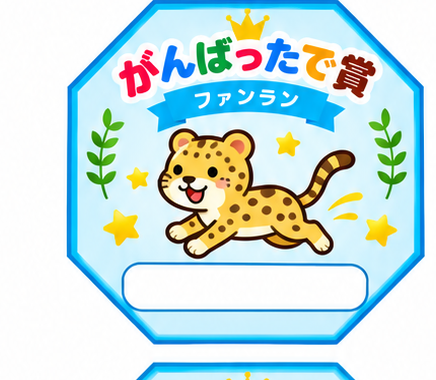
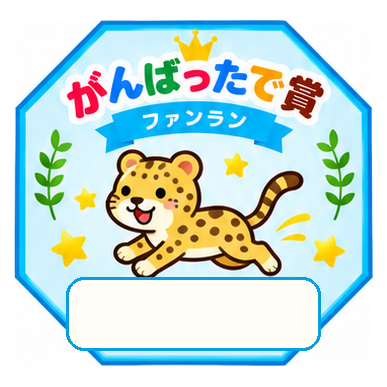
Add files via upload

diff --git a/app.js b/app.js
@@ -8,7 +8,7 @@ const LOCK_STALE_MS = 90000;
 const HEARTBEAT_MS = 20000;
 const DEFAULT_NOTICE = '開会式は、体育館で10時からとなっています。参加者は、5分前にはお集まりください。';
 const DEFAULT_CODES = { admin:'1234', A:'1111', B:'2222', C:'3333' };
-const APP_VERSION='1.0.11';
+const APP_VERSION='1.0.13';
 const TEAM_COLORS={
   1:'#FA927E',2:'#78C7FC',3:'#F8CC76',4:'#9EE6B4',5:'#C1A6F9',
   6:'#F6AAD2',7:'#88E2DB',8:'#F3B180',9:'#A5BDF3',10:'#D2E58A'
@@ -713,11 +713,11 @@ async function printFunRunCertificates(onlyAttended=true){
 async function printOneFunRunCertificate(id){const r=state.funRunEntries?.[id];if(!r)return;await refreshCertificateAssetUrls();openCertificatePages([certificatePageHtml('funRunAward',r)],state.settings?.funRunCertificateTitle||'がんばったで賞');}
 
 function funRunMedalStyles(){return `
-@page{size:A4 portrait;margin:0}*{box-sizing:border-box}html,body{margin:0;padding:0;background:#eef2f5;font-family:"Yu Gothic","Hiragino Sans",sans-serif;-webkit-print-color-adjust:exact;print-color-adjust:exact}.toolbar{position:sticky;top:0;z-index:5;padding:9px;background:#173d61;color:#fff;text-align:center}.toolbar button{border:0;border-radius:8px;padding:8px 18px;font-weight:800}.medal-sheet{width:210mm;height:297mm;background:#fff;margin:10px auto;padding:8mm 8mm 8mm;display:grid;grid-template-columns:repeat(2,1fr);grid-template-rows:repeat(4,1fr);column-gap:4mm;row-gap:3mm;page-break-after:always;box-shadow:0 5px 22px #0002}.medal-sheet:last-child{page-break-after:auto}.medal-cell{position:relative;display:flex;flex-direction:column;align-items:center;justify-content:flex-start;overflow:hidden;background:#fff}.medal-plate{position:relative;width:58mm;height:58mm;flex:0 0 auto}.medal-bg{display:block;width:100%;height:100%;object-fit:contain}.medal-name{position:absolute;left:17%;right:17%;top:72.5%;height:9.5%;display:flex;align-items:center;justify-content:center;font-size:4.1mm;font-weight:900;color:#184c80;white-space:nowrap;overflow:hidden;text-overflow:ellipsis;line-height:1}.medal-meta{margin-top:1mm;display:flex;flex-direction:column;align-items:center;justify-content:flex-start;text-align:center;line-height:1.16;min-height:8.8mm}.medal-event{font-size:2.55mm;font-weight:800;color:#2f2f2f;white-space:nowrap;max-width:88mm;overflow:hidden;text-overflow:ellipsis}.medal-date{margin-top:.25mm;font-size:3.05mm;font-weight:900;color:#2f2f2f;white-space:nowrap}@media print{body{background:#fff}.toolbar{display:none}.medal-sheet{margin:0;box-shadow:none}}`}
+@page{size:A4 portrait;margin:0}*{box-sizing:border-box}html,body{margin:0;padding:0;background:#eef2f5;font-family:"Yu Gothic","Hiragino Sans",sans-serif;-webkit-print-color-adjust:exact;print-color-adjust:exact}.toolbar{position:sticky;top:0;z-index:5;padding:9px;background:#173d61;color:#fff;text-align:center}.toolbar button{border:0;border-radius:8px;padding:8px 18px;font-weight:800}.medal-sheet{width:210mm;height:297mm;background:#fff;margin:10px auto;display:grid;grid-template-columns:64mm 64mm;grid-template-rows:repeat(4,64mm);justify-content:center;align-content:center;column-gap:14mm;row-gap:5mm;page-break-after:always;box-shadow:0 5px 22px #0002}.medal-sheet:last-child{page-break-after:auto}.medal-cell{width:64mm;height:64mm;position:relative;overflow:hidden;background:#fff}.medal-bg{position:absolute;inset:0;width:100%;height:100%;object-fit:contain}.medal-name,.medal-event,.medal-date{position:absolute;left:17%;right:17%;display:flex;align-items:center;justify-content:center;text-align:center;white-space:nowrap;overflow:hidden;text-overflow:ellipsis;line-height:1;color:#173f65}.medal-name{top:74.1%;height:7.2%;font-size:4.15mm;font-weight:900}.medal-event{top:81.8%;height:4.8%;font-size:2.35mm;font-weight:800;color:#303030}.medal-date{top:87.0%;height:5.0%;font-size:2.55mm;font-weight:900;color:#303030}@media print{body{background:#fff}.toolbar{display:none}.medal-sheet{margin:0;box-shadow:none}}`}
 function funRunMedalHtml(row){
   const info=funRunAnimalInfo(row?.animal),eventName=state.settings?.eventName||'駅伝大会',date=certificateDateText();
   const hasName=!!String(row?.name||'').trim(),medalName=hasName?String(row.name).trim():'';
-  return `<div class="medal-cell"><div class="medal-plate"><img class="medal-bg" src="${esc(absoluteAppUrl(info.file))}" alt="${esc(info.label)}">${hasName?`<div class="medal-name">${esc(medalName)}</div>`:''}</div><div class="medal-meta"><div class="medal-event">${esc(eventName)}</div><div class="medal-date">${esc(date)}</div></div></div>`;
+  return `<div class="medal-cell"><img class="medal-bg" src="${esc(absoluteAppUrl(info.file))}" alt="${esc(info.label)}">${hasName?`<div class="medal-name">${esc(medalName)}</div>`:''}<div class="medal-event">${esc(eventName)}</div><div class="medal-date">${esc(date)}</div></div>`;
 }
 function openFunRunMedalSheets(rows,title='ファンランメダル'){
   const sourceRows=Array.isArray(rows)?rows:[];
@@ -726,7 +726,7 @@ function openFunRunMedalSheets(rows,title='ファンランメダル'){
   const pages=[];
   for(let i=0;i<printableRows.length;i+=8){
     const chunk=printableRows.slice(i,i+8),cells=[...chunk];
-    while(cells.length<8)cells.push({name:'',animal:chunk[0]?.animal||sourceRows[0]?.animal||'cheetah'});
+    while(cells.length<8)cells.push({name:'',animal:FUNRUN_ANIMAL_KEYS[cells.length%FUNRUN_ANIMAL_KEYS.length]});
     pages.push(`<section class="medal-sheet">${cells.map(r=>funRunMedalHtml(r)).join('')}</section>`);
   }
   w.document.open();w.document.write(`<!doctype html><html lang="ja"><head><meta charset="utf-8"><title>${esc(title)}</title><style>${funRunMedalStyles()}</style></head><body><div class="toolbar"><button onclick="window.print()">A4・8枚でPDF／印刷</button>　${esc(title)}（${sourceRows.length}人）</div>${pages.join('')}</body></html>`);w.document.close();

diff --git a/index.html b/index.html
@@ -261,7 +261,7 @@
           </article>
 
           <article class="panel wide event-manager-panel admin-tab-panel" data-admin-category="settings">
-            <div class="panel-heading"><h2>年度別大会管理</h2><span class="mini-badge online">v1.0.11</span></div>
+            <div class="panel-heading"><h2>年度別大会管理</h2><span class="mini-badge online">v1.0.13</span></div>
             <p class="hint">現在大会は1つだけ運用します。新しい大会を作成すると、現在大会は過去大会として自動保存されます。申込者・チーム・計測記録は新大会へ引き継ぎません。</p>
             <div id="currentEventSummary" class="current-event-summary"></div>
             <div class="new-event-box">
@@ -345,7 +345,7 @@
           </article>
 
           <article class="panel wide certificate-admin-panel admin-tab-panel" data-admin-category="results">
-            <div class="panel-heading"><h2>表彰状・記録証テンプレート</h2><span class="mini-badge online">v1.0.11</span></div>
+            <div class="panel-heading"><h2>表彰状・記録証テンプレート</h2><span class="mini-badge online">v1.0.13</span></div>
             <p class="hint">標準テンプレートをそのまま使用できます。必要に応じてPNGをダウンロードし、Canva・PowerPoint等で編集してから背景画像としてアップロードしてください。完成した証書画像は保存せず、出力時に文字を重ねてPDF化します。</p>
             <div class="certificate-meta-grid">
               <label>主催名<input id="certificateOrganizerName" placeholder="例：大豊学園PTA" /></label>
@@ -488,7 +488,7 @@
           </article>
 
           <article class="panel wide backup-panel admin-tab-panel" data-admin-category="data">
-            <div class="panel-heading"><h2>バックアップ・データ出力</h2><span class="mini-badge">v1.0.11</span></div>
+            <div class="panel-heading"><h2>バックアップ・データ出力</h2><span class="mini-badge">v1.0.13</span></div>
             <p class="hint">JSONバックアップには申込者の個人情報とチーム用アクセスコードが含まれます。学校・大会事務局の安全な場所に保管してください。管理者・計測係のアクセスコードはバックアップに含めません。</p>
             <div class="backup-actions">
               <button class="primary-btn" id="exportBackupBtn" type="button">現在大会をJSONバックアップ</button>
@@ -584,6 +584,6 @@
   <script src="https://cdn.jsdelivr.net/npm/@supabase/supabase-js@2"></script>
   <script src="supabase-config.js"></script>
   <script src="https://cdnjs.cloudflare.com/ajax/libs/qrcodejs/1.0.0/qrcode.min.js"></script>
-  <script type="module" src="app.js?v=1.0.11"></script>
+  <script type="module" src="app.js?v=1.0.13"></script>
 </body>
 </html>

diff --git a/V1_RELEASE_NOTES.md b/V1_RELEASE_NOTES.md
@@ -1,3 +1,9 @@
+## v1.0.13
+- ファンランメダル8枚印刷の寸法を再設計し、各メダル間に十分な余白を確保
+- メダル画像から「なまえ／さん」「大会名／固定日付」の焼き込みを除去
+- 名前・大会名・開催日はアプリ側でメダル内の専用空白パネルへ後載せ
+- 当日参加用の空欄メダルは8種類の動物を順番に配置
+
 ## v1.0.11
 - ファンランメダルのレイアウトを再調整し、名前・大会名・日付が重ならないよう修正
 - メダル下部の大会名・日付を既存デザインに合わせて自然に表示
@@ -50,9 +56,3 @@ v0.15.1までのSQLパッチを適用済みの環境では、v1.0用の追加SQL
 - PC/スマホともにカテゴリ切替対応
 - 最後に開いていた管理カテゴリを端末内に記憶
 - 既存の管理機能・Supabase構成は変更なし
-
-
-## v1.0.12
-- ファンランメダルの台紙画像を、名前・大会名・日付の焼き込みがないベース画像へ差し替え
-- メダル印刷レイアウトを調整し、8枚配置時の切れ・重なりを改善
-- 名前はメダル内の名入れ欄へ後載せ、大会名と日付はメダル下部へ表示する方式に変更
